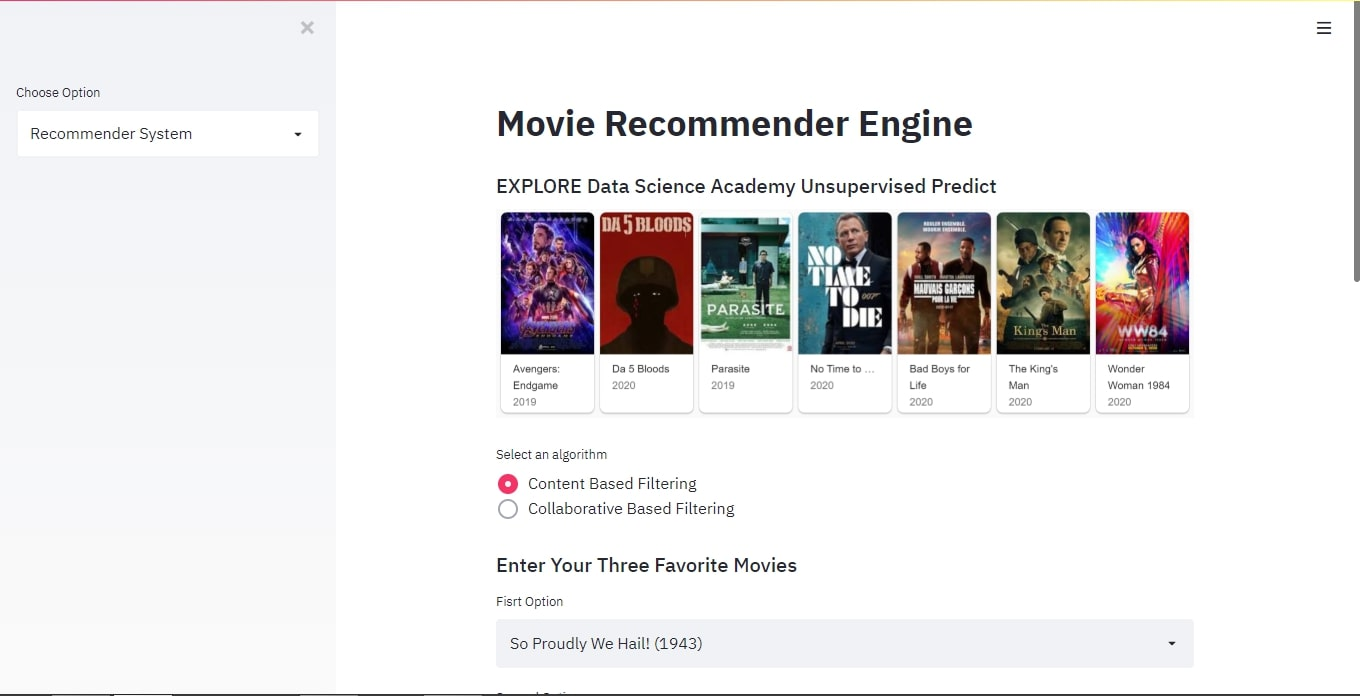
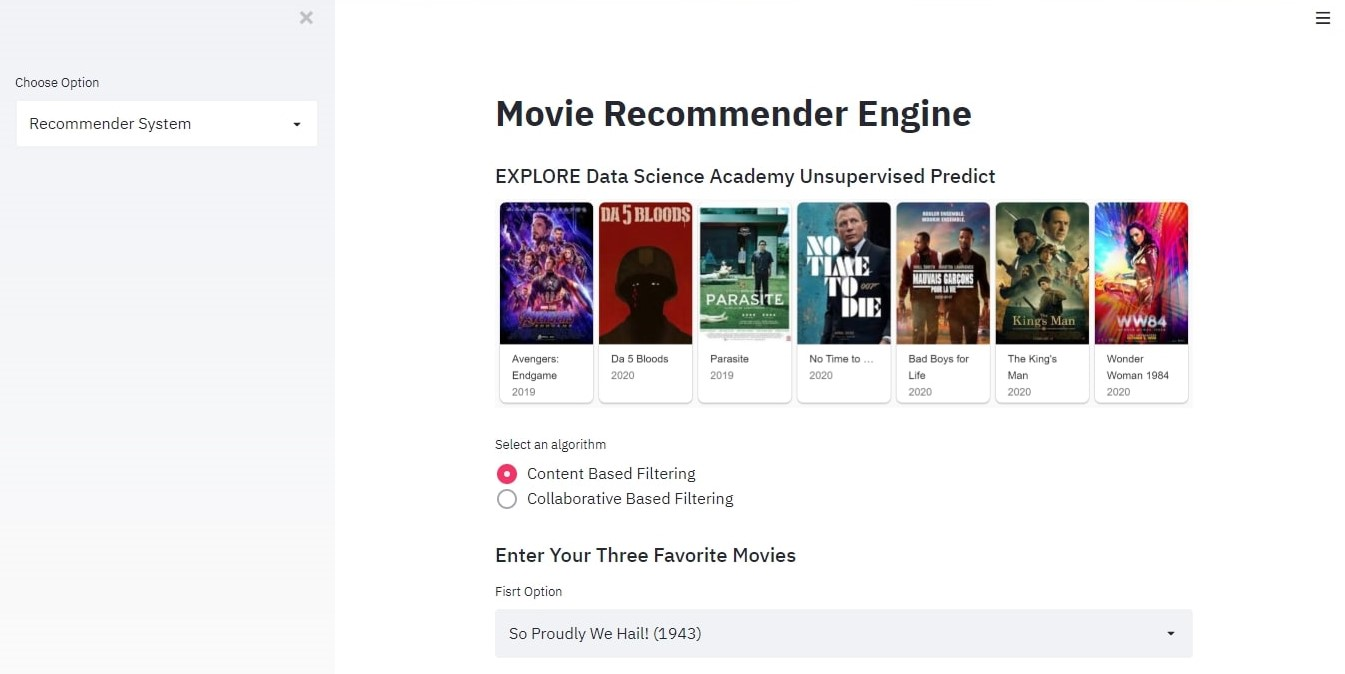
Final edits on the getting started page

diff --git a/edsa_recommender.py b/edsa_recommender.py
@@ -108,14 +108,14 @@ def main():
     if page_selection == "Getting Started":
         st.title('Movie Recommender Engine')
         st.info('Working With The App')
-        st.image(r'resources/imgs/intro.jpg',use_column_width=True')
+        st.image(r'resources/imgs/intro.jpg',use_column_width=True)
         st.header('**Using The App**')
         st.markdown(''' i. Navigate and select a Movie Recommender System Algorithm of your choice. ''')
         st.markdown(''' ii. Collaborative Filtering algorithm will recommend a movie to a user based on what other users with similar movie preferences and interests have watched and recommend that to them.''')
-        st.markdown(''' iii. Content_Based Filtering algorithm will recommend a movie to a user based on movies that are similar to what they have watched before and then recomend those movies to them.''')
-        st.markdown(''' iv. After selecting an algorithm, select 3 options of movies that you would like to get recommendations for.''')
+        st.markdown(''' iii. Content_Based Filtering algorithm will recommend a movie to a user based on movies that are similar to what they have watched before and then recommend those movies to them.''')
+        st.markdown(''' iv. After selecting an algorithm, select 3 options of your favorite movies that you would like to get recommendations from.''')
         st.markdown(''' v. Click 'Recommend' and get a list of movie recommendations for you.''')
-        #st.image(r'resources/imgs/unnamed.jpg',use_column_width=True)
+        st.image(r'resources/imgs/intro.gif',use_column_width=True)
 
 
     if page_selection == "Solution Overview":
